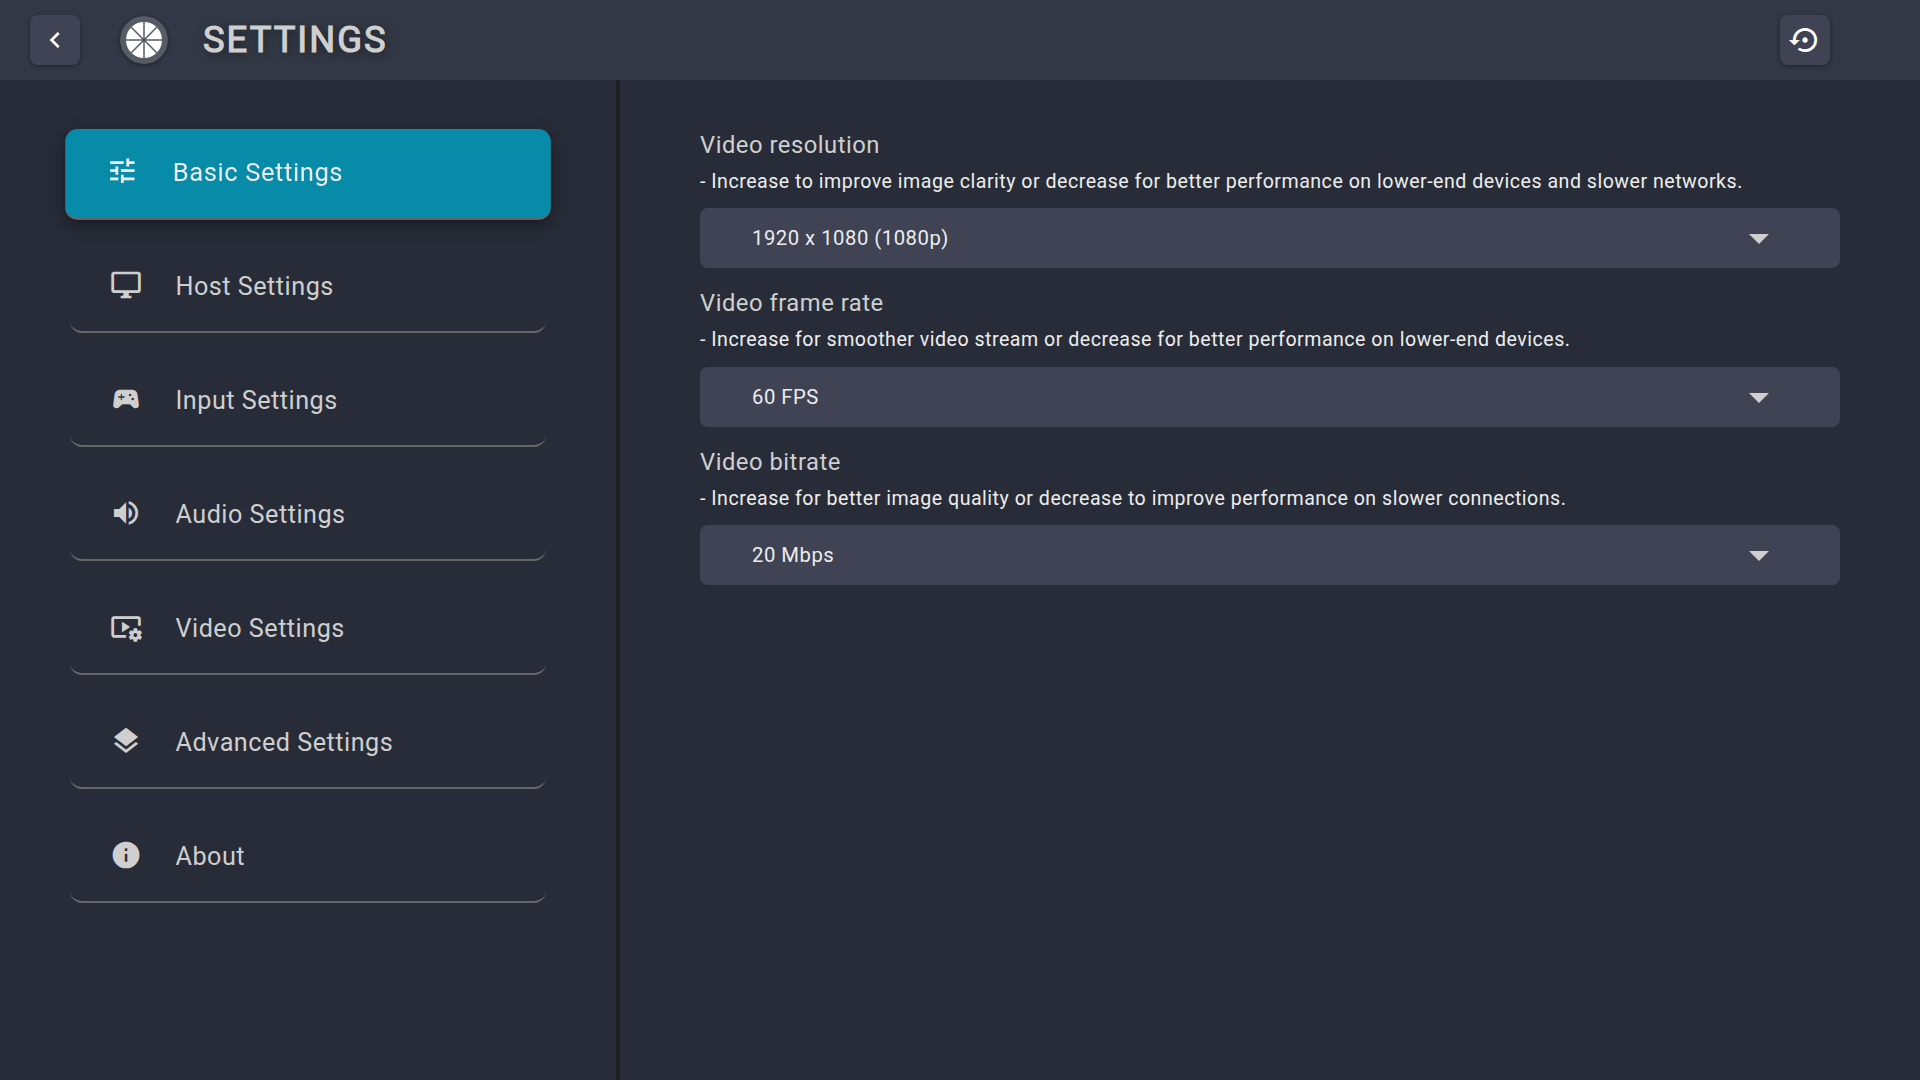
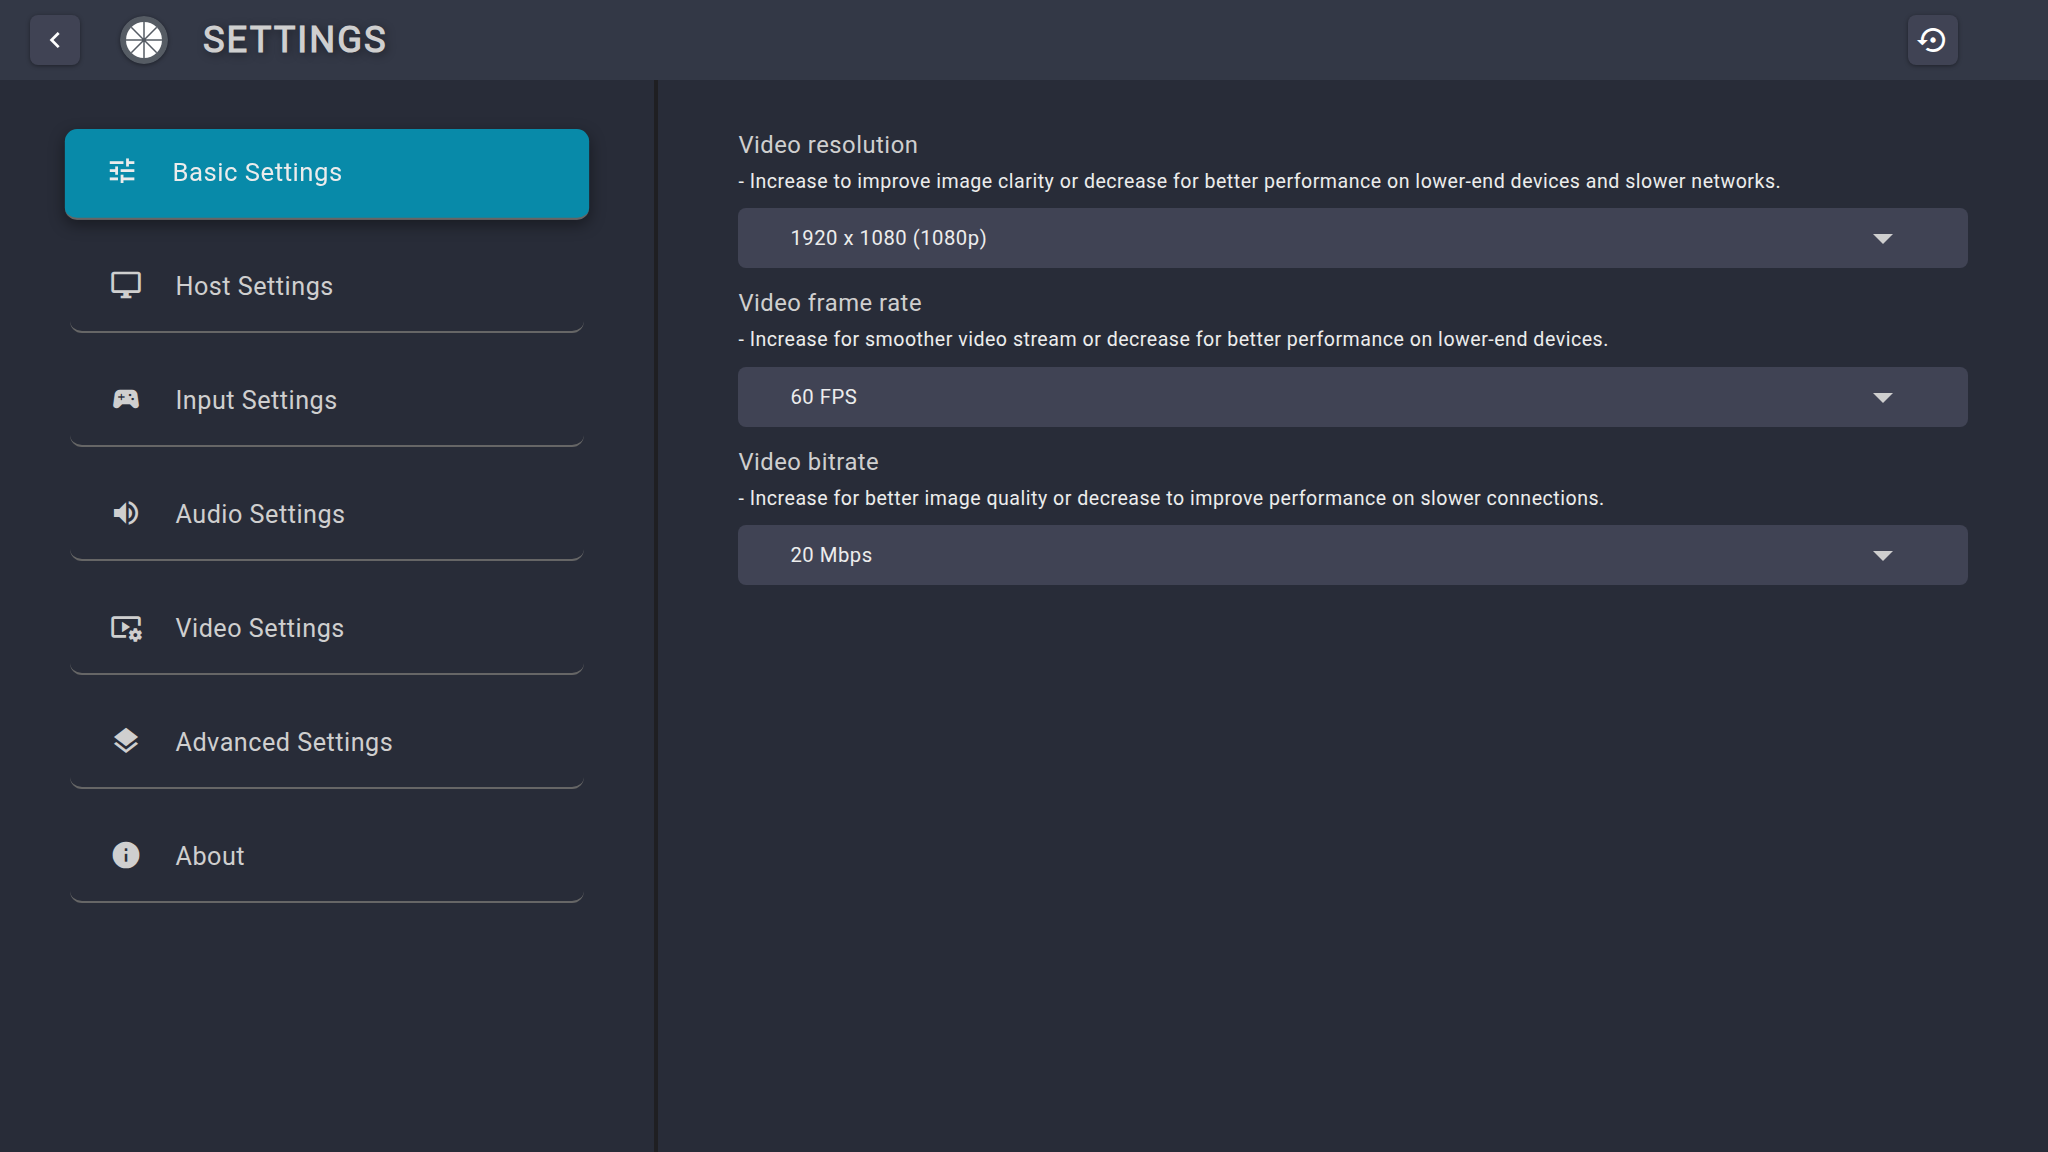
Preserve the README GIF and metadata before trimming the text

diff --git a/docs/images/ATTRIBUTION.md b/docs/images/ATTRIBUTION.md
@@ -8,7 +8,11 @@ The original image files are retained without pixel changes in `open-games/`.
 The application's existing `object-fit: cover` scales and crops their visible
 area in `game-library.png` and `game-library-wake.png`; favorites, selection,
 online Resume and offline Wake & play are demonstration states.
-`settings.png` contains only this application's interface.
+`settings.png` and `add-host.png` contain only this application's interface.
+`interface.gif` combines Wake & play, settings, Resume and the initial Add Host
+screen in that order, with one second per frame. Its source captures are retained
+as lossless 2048 × 1152 PNGs; the GIF is scaled to 1920 × 1080 and uses a separate
+256-color palette for each frame with dithering.
 
 ## Source images
 
@@ -29,7 +33,7 @@ online Resume and offline Wake & play are demonstration states.
 
 ## Composite capture
 
-`game-library.png` and `game-library-wake.png` are distributed under [GPL-3.0](../../LICENSE), matching the
+`game-library.png`, `game-library-wake.png` and `interface.gif` are distributed under [GPL-3.0](../../LICENSE), matching the
 application UI. The unchanged source images retain the licenses above.
 For the cropped CC BY-SA 3.0 material incorporated into the composite, the
 adaptation uses CC BY-SA 4.0 and its one-way GPLv3 compatibility. See

diff --git a/README.md b/README.md
@@ -4,21 +4,10 @@ A fork of [brightcraft/moonlight-tizen](https://github.com/brightcraft/moonlight
 
 ## Interface
 
-![Game library with twelve open-source games, favorites and the Resume action](docs/images/game-library.png)
+![Moonlight interface: Wake & play, basic settings, Resume library and the initial Add Host screen](docs/images/interface.gif)
 
-<details>
-<summary>PC offline — Wake & play</summary>
-
-![Cached game library with twelve games and Wake & play available while the PC is offline](docs/images/game-library-wake.png)
-
-</details>
-
-<details>
-<summary>Basic settings</summary>
-
-![Basic settings for video resolution, frame rate and bitrate](docs/images/settings.png)
-
-</details>
+Four screens in a loop, one second per screen: **Wake & play → Settings →
+Resume → Add Host**. The animation is 1920 × 1080 (16:9).
 
 Application UI rendered locally with the original application layout, a
 demonstration PC and twelve real open-source games. Game images are reused under

diff --git a/.github/REPOSITORY_METADATA.md b/.github/REPOSITORY_METADATA.md
@@ -1,0 +1,26 @@
+# Repository description and topics
+
+Prepared locally for the repository's **About** section. Apply these values on
+GitHub only after the maintainer authorizes the update.
+
+## Description
+
+Game streaming from Sunshine or NVIDIA GameStream to Samsung Smart TVs (Tizen), with a controller-first library and Wake-on-LAN.
+
+## Topics
+
+```text
+moonlight
+moonlight-tizen
+tizen
+samsung-smart-tv
+sunshine
+gamestream
+game-streaming
+wake-on-lan
+gamepad
+webassembly
+```
+
+The description and topics identify the platform, host software and main
+features. They make no compatibility or performance claim beyond the README.
